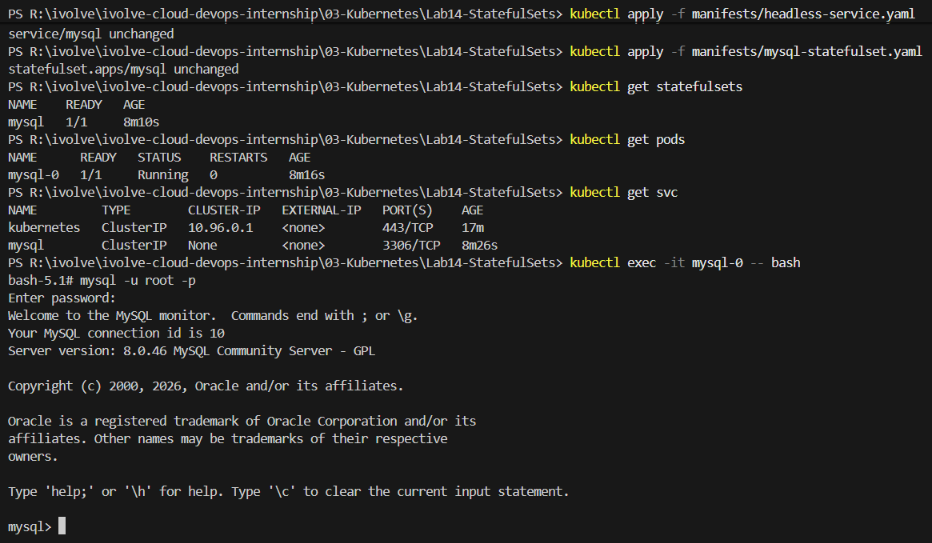
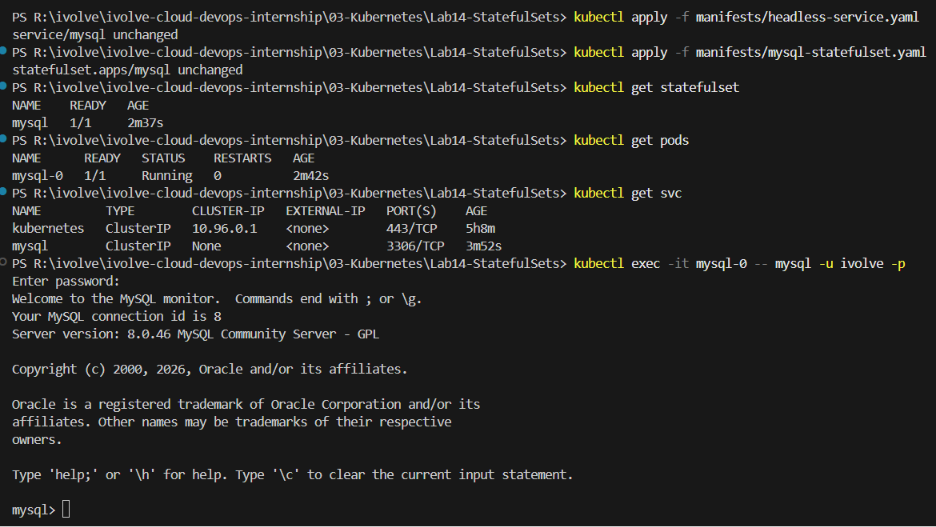
Day 08: Enhance Lab14 (StatefulSet & Headless Service) with Node Selector and custom MySQL user

Changed region(s): [[0.0, 0.0, 0.9957, 0.7287], [0.0, 0.759, 0.529, 0.8501], [0.0, 0.8805, 0.6223, 1.0]]

diff --git a/03-Kubernetes/Lab14-StatefulSets/README.md b/03-Kubernetes/Lab14-StatefulSets/README.md
@@ -4,11 +4,11 @@
 
 Unlike Deployments, which are designed for stateless applications, **StatefulSets** are used to manage applications that require **stable identities, persistent storage, and ordered deployment**. Databases such as MySQL, PostgreSQL, MongoDB, and Cassandra are common examples of stateful workloads.
 
-In this lab, a **MySQL StatefulSet** is deployed with a single replica. The database securely consumes its root password from a Kubernetes **Secret**, stores its data using a **Persistent Volume Claim (PVC)**, and includes a **Toleration** allowing it to be scheduled on a tainted worker node.
+In this lab, a **MySQL StatefulSet** is deployed with a single replica. The database securely consumes its configuration from Kubernetes **ConfigMaps** and **Secrets**, automatically creates the **ivolve** database and a non-root **ivolve** user during initialization, stores its data using a **Persistent Volume Claim (PVC)**, and includes a **Node Selector** and **Toleration** to schedule the Pod on the tainted worker node.
 
 A **Headless Service** is also created to provide stable DNS records for the StatefulSet Pods, enabling reliable communication between stateful applications.
 
-Finally, the MySQL database is verified by connecting with a MySQL client and confirming that it is running correctly.
+Finally, the MySQL database is verified by connecting with the **ivolve** user and confirming that the database is operational.
 
 ---
 
@@ -17,9 +17,10 @@ Finally, the MySQL database is verified by connecting with a MySQL client and co
 - Understand Kubernetes StatefulSets.
 - Deploy MySQL using a StatefulSet.
 - Create a Headless Service.
-- Consume sensitive configuration from Kubernetes Secrets.
+- Consume configuration from Kubernetes ConfigMaps and Secrets.
+- Automatically initialize a MySQL database and application user.
+- Configure both a Node Selector and Toleration for scheduling.
 - Mount persistent storage using a Persistent Volume Claim.
-- Configure Pod tolerations for tainted nodes.
 - Verify stable networking provided by a Headless Service.
 - Confirm the MySQL database is operational.
 
@@ -49,6 +50,7 @@ Lab14-StatefulSet/
 - StatefulSet
 - Headless Service
 - Persistent Volume Claim (PVC)
+- ConfigMaps
 - Kubernetes Secrets
 - MySQL
 - Minikube
@@ -143,27 +145,35 @@ Headless Services are commonly used with:
 
 ---
 
-# 📖 Understanding Pod Tolerations
+# 📖 Understanding Pod Scheduling
 
-In Lab 10, the worker node was configured with the taint:
+In **Lab 10**, a dedicated worker node was configured with the following taint:
 
 ```text
 node=worker:NoSchedule
 ```
 
-Normally, Pods cannot be scheduled onto that node.
+Pods are **not scheduled** onto this node unless they explicitly tolerate the taint.
 
-By adding a matching **Toleration**, Kubernetes allows the StatefulSet Pod to run on the tainted worker node.
+In this lab, the StatefulSet uses both a **Node Selector** and a **Toleration**:
+
+- **Node Selector** targets the worker node by matching its label.
+- **Toleration** allows the Pod to be scheduled onto the tainted node.
 
 Example:
 
 ```yaml
+nodeSelector:
+  node: worker
+
 tolerations:
-- key: node
-  operator: Equal
-  value: worker
-  effect: NoSchedule
+  - key: node
+    operator: Equal
+    value: worker
+    effect: NoSchedule
 ```
+
+Using both ensures that the Pod is scheduled **only** on the intended worker node, providing greater control over workload placement.
 
 ---
 
@@ -218,11 +228,15 @@ Create `mysql-statefulset.yaml`
 
 The StatefulSet should include:
 
-- One replica
-- MySQL container
+- One MySQL replica
+- Headless Service
+- Persistent Volume Claim
 - Root password from Secret
-- PVC mounted to `/var/lib/mysql`
-- Toleration for `node=worker:NoSchedule`
+- Database user from ConfigMap
+- User password from Secret
+- Automatic database initialization
+- Node Selector
+- Toleration
 
 Example:
 
@@ -245,34 +259,58 @@ spec:
         app: mysql
 
     spec:
+      nodeSelector:
+        node: worker
+
       tolerations:
-      - key: node
-        operator: Equal
-        value: worker
-        effect: NoSchedule
+        - key: node
+          operator: Equal
+          value: worker
+          effect: NoSchedule
 
       containers:
-      - name: mysql
-        image: mysql:8.0
+        - name: mysql
+          image: mysql:8.0
 
-        env:
-        - name: MYSQL_ROOT_PASSWORD
-          valueFrom:
-            secretKeyRef:
-              name: mysql-secret
-              key: MYSQL_ROOT_PASSWORD
+          ports:
+            - containerPort: 3306
 
-        volumeMounts:
-        - name: mysql-storage
-          mountPath: /var/lib/mysql
+          env:
+            - name: MYSQL_ROOT_PASSWORD
+              valueFrom:
+                secretKeyRef:
+                  name: mysql-secret
+                  key: MYSQL_ROOT_PASSWORD
 
-        ports:
-        - containerPort: 3306
+            - name: DB_HOST
+              valueFrom:
+                configMapKeyRef:
+                  name: mysql-config
+                  key: DB_HOST
+
+            - name: MYSQL_DATABASE
+              value: ivolve
+
+            - name: MYSQL_USER
+              valueFrom:
+                configMapKeyRef:
+                  name: mysql-config
+                  key: DB_USER
+
+            - name: MYSQL_PASSWORD
+              valueFrom:
+                secretKeyRef:
+                  name: mysql-secret
+                  key: DB_PASSWORD
+
+          volumeMounts:
+            - name: mysql-storage
+              mountPath: /var/lib/mysql
 
       volumes:
-      - name: mysql-storage
-        persistentVolumeClaim:
-          claimName: app-logs-pvc
+        - name: mysql-storage
+          persistentVolumeClaim:
+            claimName: app-logs-pvc
 ```
 
 ---
@@ -356,17 +394,16 @@ Notice that the **Cluster-IP** is **None**, confirming the Service is headless.
 Execute a shell inside the Pod:
 
 ```bash
-kubectl exec -it mysql-0 -- bash
+kubectl exec -it mysql-0 -- mysql -u ivolve -p
 ```
 
-Connect using the MySQL client:
+Enter the password defined by the `DB_PASSWORD` key in the `mysql-secret` Secret.
 
-```bash
-mysql -u root -p
-```
+The MySQL Docker image automatically creates the database and user during the first initialization when the following variables are provided:
 
-Enter the root password stored in the Secret.
-
+- MYSQL_DATABASE
+- MYSQL_USER
+- MYSQL_PASSWORD
 Verify the connection:
 
 ```sql
@@ -376,11 +413,13 @@ SHOW DATABASES;
 Expected Output
 
 ```text
-Database
-information_schema
-mysql
-performance_schema
-sys
++--------------------+
+| Database           |
++--------------------+
+| information_schema |
+| ivolve             |
+| performance_schema |
++--------------------+
 ```
 
 This confirms the database is operational.
@@ -438,7 +477,7 @@ kubectl describe pod mysql-0
 Verify the database:
 
 ```bash
-mysql -u root -p
+kubectl exec -it mysql-0 -- mysql -u ivolve -p
 ```
 
 Expected: